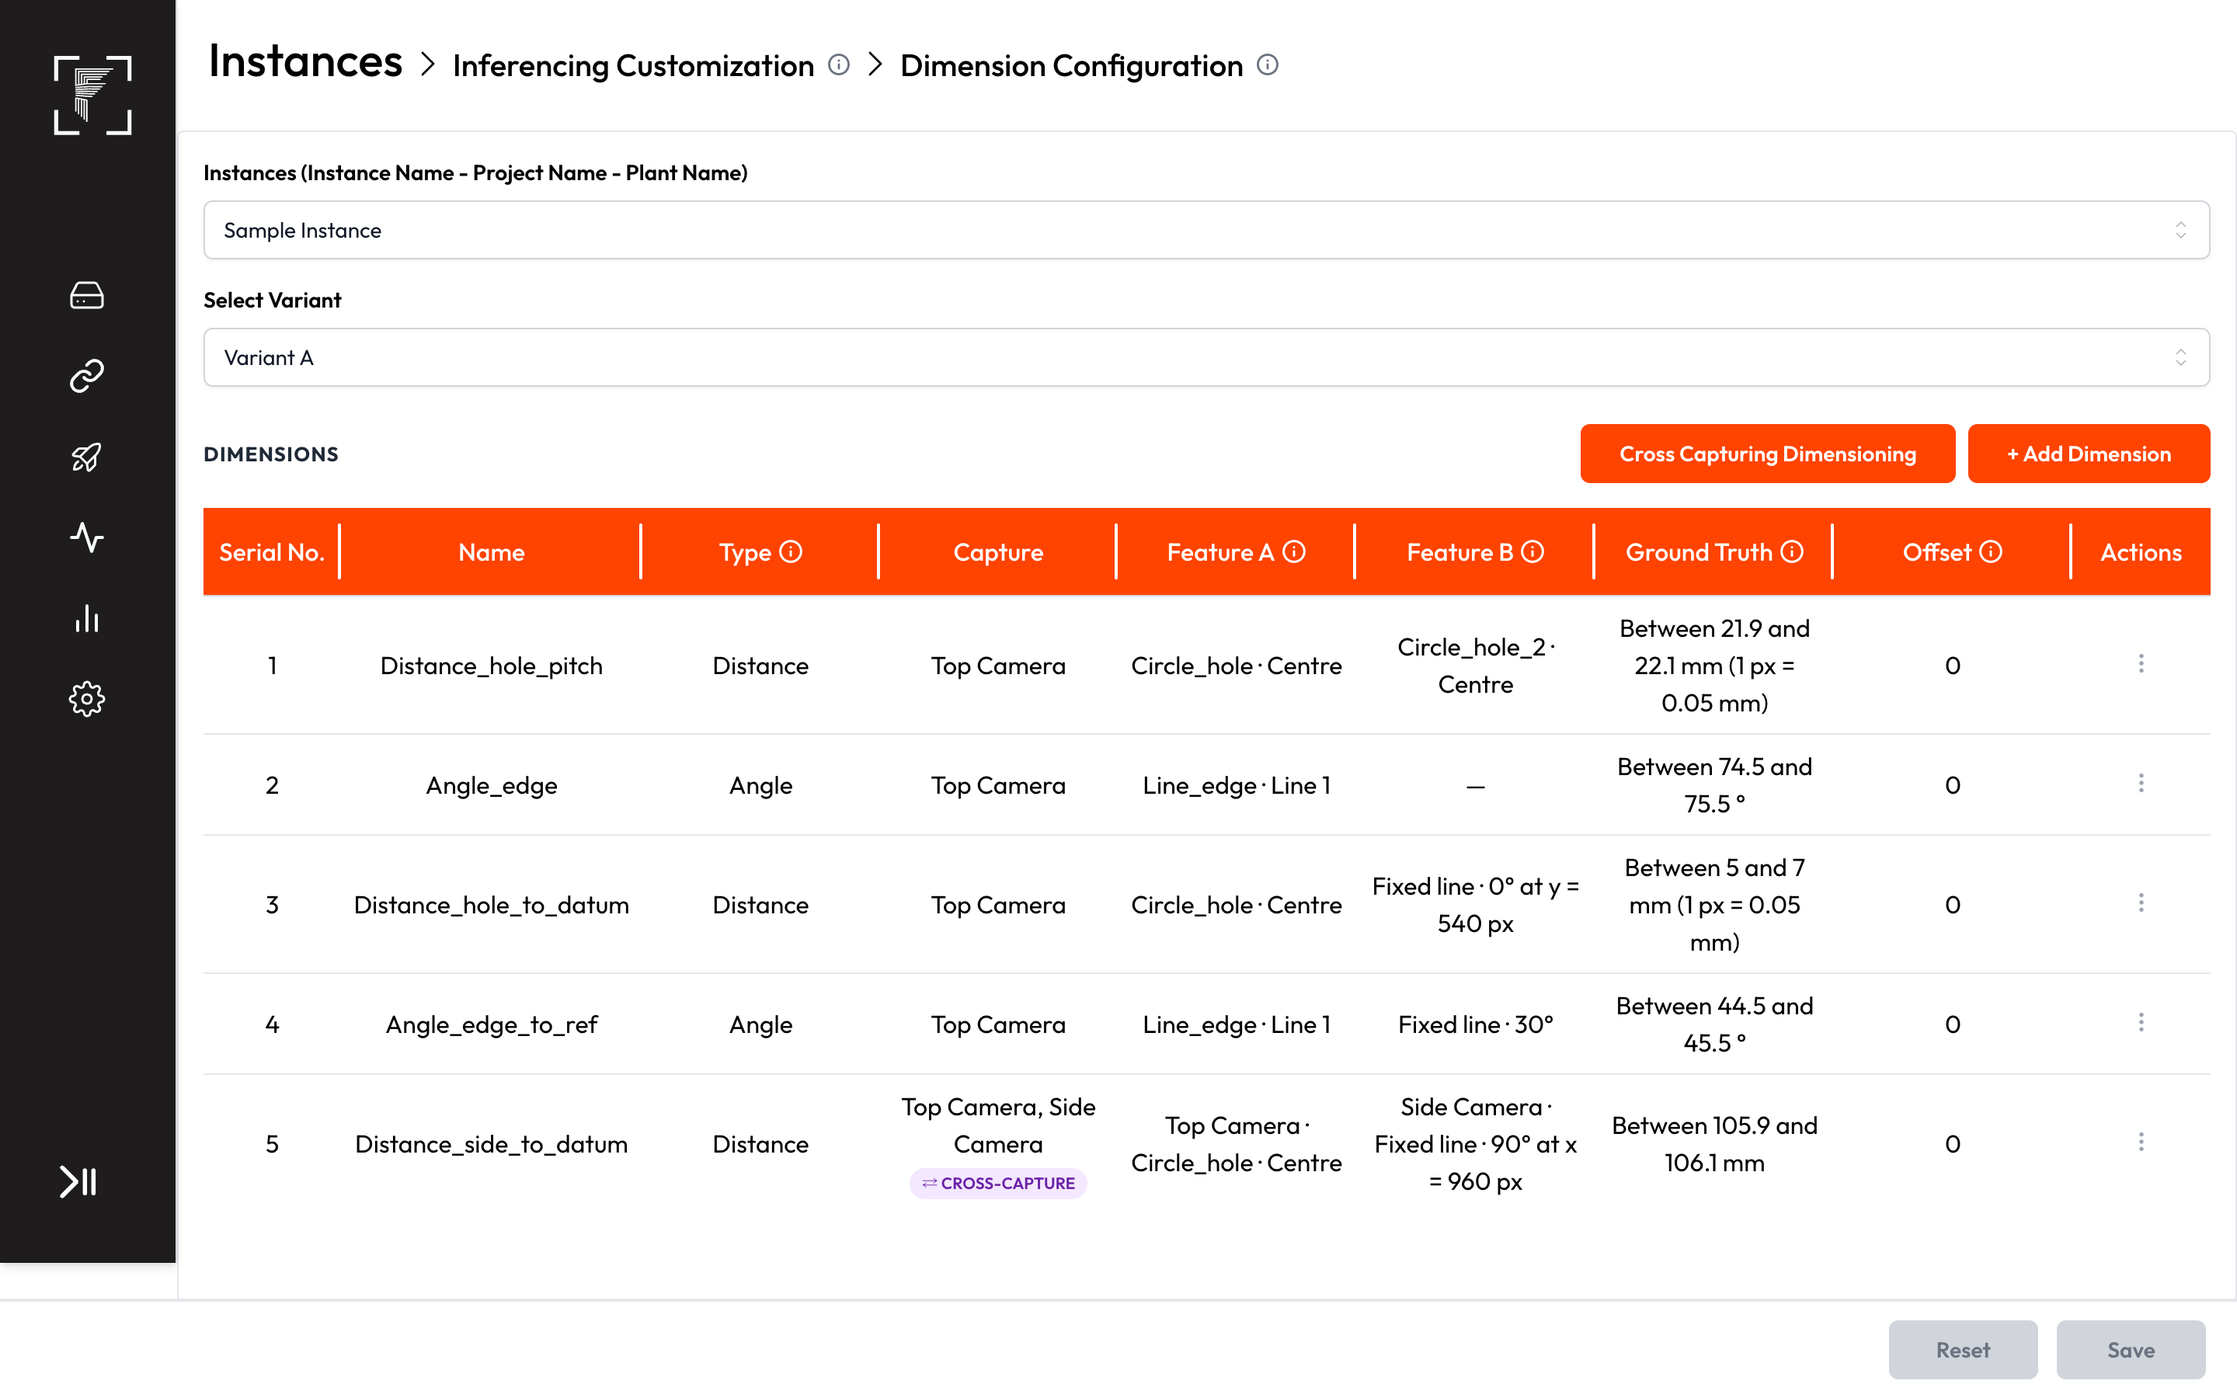
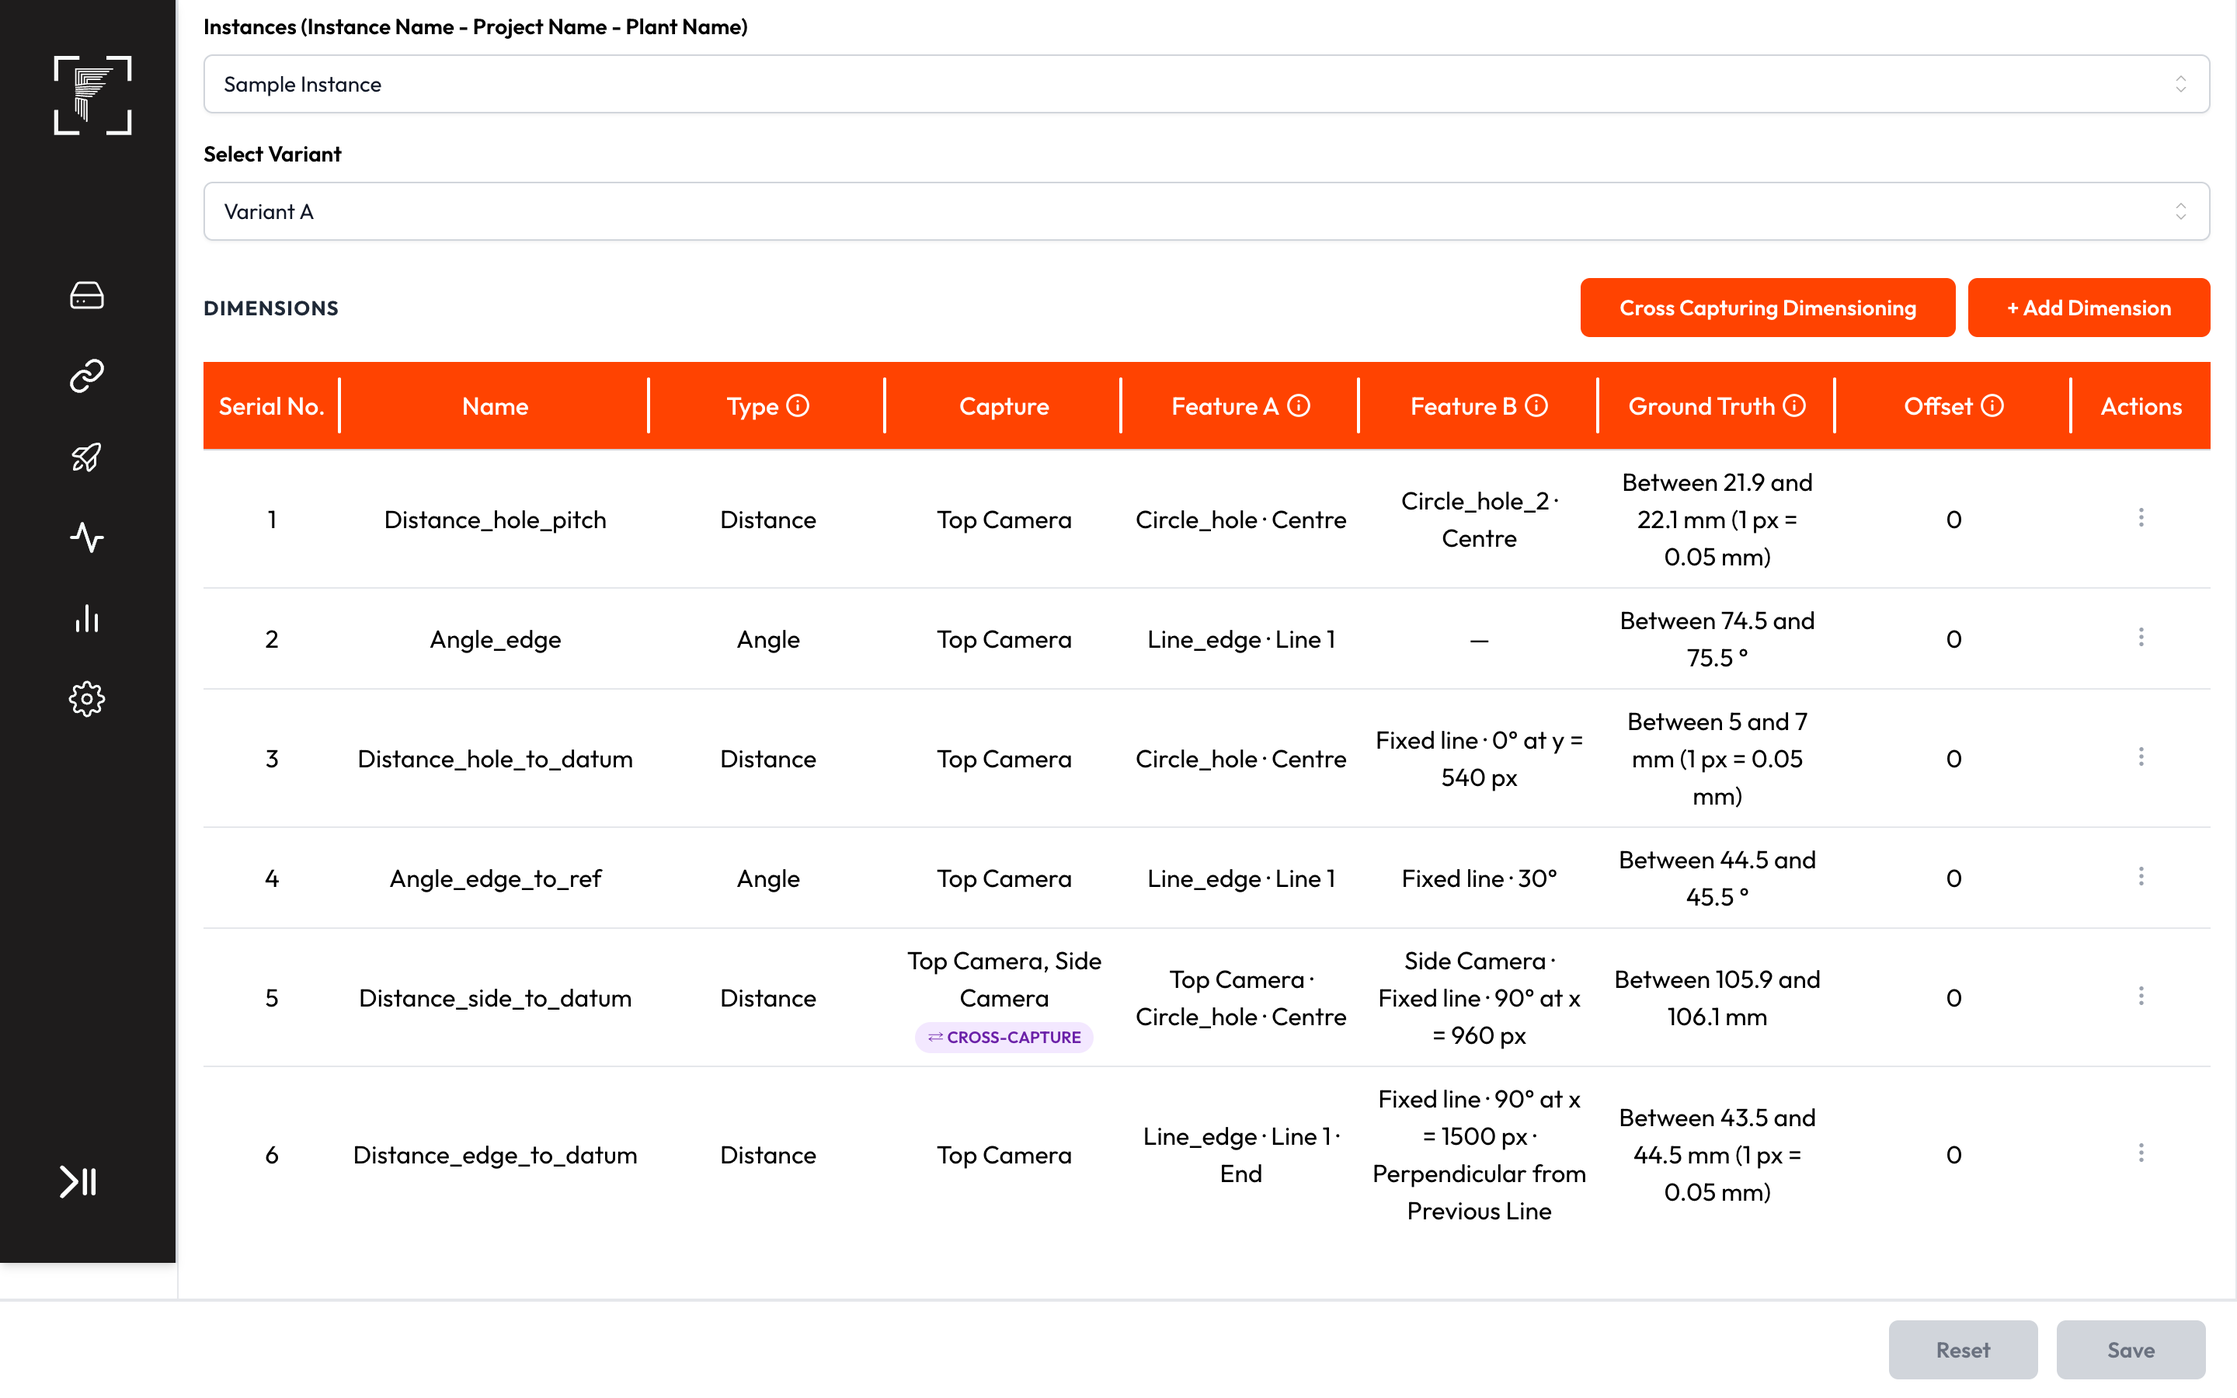
Perpendicular type for a fixed line when Feature A is a point on a line

diff --git a/dimension-config.html b/dimension-config.html
@@ -230,14 +230,14 @@ table.tbl{min-width:100%;width:100%;border-collapse:collapse;text-indent:0}
  * ========================================================================= */
 var Q = new URLSearchParams(location.search);
 var IN_IFRAME = (function () { try { return window.self !== window.top; } catch (e) { return true; } })();
-var VALID_STATES = ['list', 'shape-value', 'distance', 'distance-vertical', 'distance-tilted', 'line', 'gt', 'gt-px', 'angle', 'cross', 'saved'];
+var VALID_STATES = ['list', 'shape-value', 'distance', 'distance-vertical', 'distance-tilted', 'perp', 'line', 'gt', 'gt-px', 'angle', 'cross', 'saved'];
 var MODE = Q.get('mode') === 'today' ? 'today' : 'after';
 var STATE = VALID_STATES.indexOf(Q.get('state')) >= 0 ? Q.get('state') : 'list';
 var SHOW_SWITCH = !IN_IFRAME && Q.get('switch') !== '0';
 var SCROLL_TO = Q.get('scroll') || (STATE === 'gt' || STATE === 'gt-px' ? 'gt' : (STATE === 'line' ? 'col' : ''));
 function isAfter() { return MODE === 'after'; }
 function effState() {
-  if (MODE === 'today' && (STATE === 'distance-vertical' || STATE === 'distance-tilted' || STATE === 'line')) return 'distance';
+  if (MODE === 'today' && (STATE === 'distance-vertical' || STATE === 'distance-tilted' || STATE === 'line' || STATE === 'perp')) return 'distance';
   return STATE;
 }
 function nav(to) {
@@ -468,6 +468,7 @@ function validate(f) {
   return e;
 }
 function hasErrors(e) { return Object.keys(e).length > 0; }
+function hasErrorsIn(e) { return Object.keys(e).length > 0; }
 
 /* =========================================================================
  * =========================================================================
@@ -483,6 +484,9 @@ var FIXED = {
   LINE_COLOUR_LABEL: 'Fixed line colour',
   DEFAULT_LINE_COLOR: '#FFFF33',  // yellow
   ANGLE_TYPE_LABEL: 'Angle type',
+  PERP_LABEL: 'Perpendicular type',
+  PERP_OPTIONS: [{ id: 'on', name: 'Perpendicular on the line' }, { id: 'from', name: 'Perpendicular from Previous Line' }],
+  NEVER_MEETS: 'Feature A’s line is perpendicular to the fixed line, so the perpendicular from A never meets it. Change the angle or pick a different point.',
   TWO_FEATURES_NAME: 'Between two features',
   ANGLE_OPTION: { id: 'fixed', name: 'From a fixed line' },
   ANGLE_LABEL: 'Angle',           // the one box shown for Angle → From a fixed line
@@ -497,6 +501,15 @@ var FIXED = {
   // Defaults applied when "Fixed line" is picked: 90° through the image's middle column (Centre y greyed out).
   applyDefaults: function (fx, cap) { var s = imgSizeOf(cap); fx.angle = '90'; fx.cx = String(s.w / 2); fx.cy = ''; fx.cap = cap; },
   // Exactly 0° or 180° greys out Centre x; exactly 90° greys out Centre y.
+  // Perpendicular type applies only while Feature A is a point on a line; otherwise it is "on the line".
+  perpOf: function (f) { return mode2Enabled(f) && f.fixed.perp === 'from' ? 'from' : 'on'; },
+  // "From previous line": the line at right angles to Feature A's own line, through A's point, to where it meets the fixed line.
+  fromPrevious: function (f, P, g) {
+    var lineA = resolveFeatureLine(shapeOf(f.A), f.A); if (!lineA) return null;
+    var perp = perpendicularThrough(P, lineA), L = { a: g.p, b: add(g.p, g.u) };
+    if (!perp || nearlyParallel(perp, L)) return null;
+    return { meet: intersectLines(perp, L), lineDir: unit(sub(lineA.b, lineA.a)) };
+  },
   greyX: function (fx) { var a = textToNum(fx.angle); return a === 0 || a === 180; },
   greyY: function (fx) { return textToNum(fx.angle) === 90; },
   // A box that comes back into use gets the value typed earlier, or the image's middle column / row.
@@ -524,17 +537,22 @@ var FIXED = {
     if (f.type === 'angle') { if (!inR(fx.angle, 0, 180)) e.fixedAngle = 'Enter an angle between 0° and 180°.'; return e; }
     if (!inR(fx.angle, 0, 180)) e.fixedAngle = 'Enter an angle between 0° and 180°.';
     // a greyed-out box is neither checked nor saved
+    if (FIXED.perpOf(f) === 'from' && !hasErrorsIn(e)) {
+      var P0 = resolveFeaturePoint(shapeOf(f.A), f.A), g0 = FIXED.geom(fx);
+      if (P0 && g0 && !FIXED.fromPrevious(f, P0, g0)) e.featureB = FIXED.NEVER_MEETS;
+    }
     if (!FIXED.greyX(fx) && !inR(fx.cx, 0, s.w)) e.fixedCx = px(s.w);
     if (!FIXED.greyY(fx) && !inR(fx.cy, 0, s.h)) e.fixedCy = px(s.h);
     return e;
   },
 
   // Dimensions table, Feature B cell
-  describe: function (fx, captureName) {
+  describe: function (fx, captureName, perpName) {
     var v = function (t) { return fmt2(textToNum(t)); }, a = v(fx.angle) + '°', txt;
     if (FIXED.greyX(fx)) txt = 'Fixed line · ' + a + ' at y = ' + v(fx.cy) + ' px';
     else if (FIXED.greyY(fx)) txt = 'Fixed line · ' + a + ' at x = ' + v(fx.cx) + ' px';
     else txt = 'Fixed line · ' + a + ' at (' + v(fx.cx) + ', ' + v(fx.cy) + ') px';
+    if (perpName) txt += ' · ' + perpName;
     return captureName ? captureName + ' · ' + txt : txt;
   },
   describeAngle: function (angle) { return 'Fixed line · ' + fmt2(textToNum(angle)) + '°'; },
@@ -627,6 +645,7 @@ var FIXED = {
       html += selectInput('fixed.cap', { options: captureOptions(), value: f.fixed.cap, placeholder: 'Capture' });
       html += selectInput('B.shape', { options: shapes.map(function (sh) { return { id: sh.id, name: sh.name }; }).concat([FIXED.SHAPE_OPTION]), value: FIXED.SHAPE_OPTION.id, placeholder: 'Shape' });
       html += FIXED.inputs(f.fixed);
+      if (mode2Enabled(f)) html += selectField('fixed.perp', FIXED.PERP_LABEL, { options: FIXED.PERP_OPTIONS, value: FIXED.perpOf(f) });
     } else {
       var inner = featurePickerInner(f, 'B', true, true, [FIXED.SHAPE_OPTION]);
       html += inner.html; warn = inner.warn;
@@ -677,14 +696,21 @@ var FIXED = {
     var P = resolveFeaturePoint(shapeOf(f.A), f.A); if (!P) return null;
     var g = FIXED.geom(f.fixed); if (!g) return null;
     var s = imgSizeOf(f.fixed.cap), seg = FIXED.clip(g.p, g.u, s.w, s.h);
-    var foot = FIXED.foot(P, g.p, g.u), d = len(sub(P, foot));
+    var fp = FIXED.perpOf(f) === 'from' ? FIXED.fromPrevious(f, P, g) : null;
+    if (FIXED.perpOf(f) === 'from' && !fp) return null;
+    var end = fp ? fp.meet : FIXED.foot(P, g.p, g.u), d = len(sub(P, end));
     return {
-      at: d > 0.5 ? mid(P, foot) : P,
-      px: d, half: d / 2, dir: d > 0.5 ? unit(sub(P, foot)) : g.u, avoid: seg ? [{ a: seg[0], b: seg[1] }] : [],
+      at: d > 0.5 ? mid(P, end) : P,
+      px: d, half: d / 2, dir: d > 0.5 ? unit(sub(P, end)) : g.u, avoid: seg ? [{ a: seg[0], b: seg[1] }] : [],
       draw: function (ctx) {
         if (seg) strokeLine(ctx, seg[0], seg[1], color, sw, [5 * sw, 3 * sw]);
-        if (d > 0.5) { FIXED.tick(ctx, foot, g.u, unit(sub(P, foot)), 5 * sw, color, sw * 0.6); strokeLine(ctx, P, foot, color, sw * 1.4); }
-        drawMarker(ctx, P, color, sw); drawMarker(ctx, foot, color, sw);
+        if (d > 0.5) {
+          // the right angle sits where the span meets the fixed line, or (from previous line) at A on its own line
+          if (fp) FIXED.tick(ctx, P, fp.lineDir, unit(sub(end, P)), 5 * sw, color, sw * 0.6);
+          else FIXED.tick(ctx, end, g.u, unit(sub(P, end)), 5 * sw, color, sw * 0.6);
+          strokeLine(ctx, P, end, color, sw * 1.4);
+        }
+        drawMarker(ctx, P, color, sw); drawMarker(ctx, end, color, sw);
       },
     };
   },
@@ -718,6 +744,12 @@ var FIXED = {
     var pA = placementOf(f.A.cap), pB = placementOf(f.fixed.cap);
     var Amm = imagePointToMm(PA, pA), l1 = imagePointToMm(g.p, pB), l2 = imagePointToMm(add(g.p, mul(g.u, 100)), pB);
     var umm = unit(sub(l2, l1)), footMm = FIXED.foot(Amm, l1, umm);
+    if (FIXED.perpOf(f) === 'from') {
+      var lA = resolveFeatureLine(shapeOf(f.A), f.A); if (!lA) return;
+      var perpMm = perpendicularThrough(Amm, { a: imagePointToMm(lA.a, pA), b: imagePointToMm(lA.b, pA) }), Lmm = { a: l1, b: add(l1, umm) };
+      if (!perpMm || nearlyParallel(perpMm, Lmm)) return;
+      footMm = intersectLines(perpMm, Lmm);
+    }
     var s1 = T.toCanvas(l1), s2 = T.toCanvas(add(l1, umm)), us = unit(sub(s2, s1));
     var seg = FIXED.clip(s1, us, size.width, size.height);
     var a = T.toCanvas(Amm), b = T.toCanvas(footMm), d = len(sub(a, b));
@@ -742,14 +774,14 @@ var FIXED = {
 var FORCED_LINE = { 'distance-vertical': { angle: '90', cx: '960', cy: '' }, 'distance-tilted': { angle: '30', cx: '960', cy: '540' } };
 // The Ground Truth screens open on a set unit (gt-px: a px range that fits the 120 px sample span).
 var FORCED_UNIT = { gt: 'mm', 'gt-px': 'px' };
-var OWN_STATES = ['cross', 'pitch', 'edge', 'shape-value'];   // own sample dimensions: never read/written to the shared state
+var OWN_STATES = ['cross', 'pitch', 'edge', 'shape-value', 'perp'];   // own sample dimensions: never read/written to the shared state
 function baseForm(S) {
   return {
     type: 'distance', angleMode: 'x', distanceAxis: 'euclidean',
     A: { cap: 'top', shape: 'circle_hole', part: 'Centre', point: null },
     B: { cap: 'top', shape: 'line_edge', part: 'Line 1', point: DERIV_ON_LINE },
     bKind: 'shape',
-    fixed: { cap: 'top', angle: numText(S.angle), cx: numText(S.cx), cy: numText(S.cy) },
+    fixed: { cap: 'top', angle: numText(S.angle), cx: numText(S.cx), cy: numText(S.cy), perp: 'on' },
     name: '', min: '', max: '', unit: 'mm', ratio: numText(S.ratio), offset: 0,
     okColor: S.okColor, ngColor: S.ngColor, labelSize: 'medium',
     showLine: S.showLine, lineColor: S.lineColor,
@@ -770,8 +802,14 @@ function buildForm(st, S) {
     // The cross-capture example is its own dimension: its line does not follow the shared one.
     f.B = { cap: 'side', shape: 'circle_pin', part: 'Centre', point: null };
     f.bKind = after ? 'fixed' : 'shape';
-    f.fixed = { cap: 'side', angle: '90', cx: '960', cy: '' };
+    f.fixed = { cap: 'side', angle: '90', cx: '960', cy: '', perp: 'on' };
     f.name = 'Distance_side_to_datum'; f.min = 105.9; f.max = 106.1; f.unit = 'mm';
+  } else if (st === 'perp') {
+    // Feature A is a point on a line (Line_edge's End), so Feature B's fixed line offers Perpendicular type.
+    f.A = { cap: 'top', shape: 'line_edge', part: 'Line 1', point: 'End' };
+    f.bKind = after ? 'fixed' : 'shape';
+    f.fixed = { cap: 'top', angle: '90', cx: '1500', cy: '', perp: after ? 'from' : 'on' };
+    f.name = 'Distance_edge_to_datum'; f.min = 43.5; f.max = 44.5; f.unit = 'mm'; f.ratio = '0.05';
   } else if (st === 'shape-value') {
     // A new single-capture Distance between two shapes: Circle_hole centre, perpendicular on Line_edge.
     f.name = 'Distance_hole_to_edge'; f.min = 29.9; f.max = 30.1; f.unit = 'mm'; f.ratio = '0.05';
@@ -1069,6 +1107,8 @@ function tableRows() {
       gt: 'Between ' + (ang ? S.min : 44.5) + ' and ' + (ang ? S.max : 45.5) + ' °', offset: '0', open: 'angle' });
     rows.push({ name: 'Distance_side_to_datum', type: 'Distance', capture: 'Top Camera, Side Camera', cross: true, A: 'Top Camera · Circle_hole · Centre',
       B: FIXED.describe({ angle: 90, cx: 960, cy: '' }, 'Side Camera'), gt: 'Between 105.9 and 106.1 mm', offset: '0', open: 'cross' });
+    rows.push({ name: 'Distance_edge_to_datum', type: 'Distance', capture: 'Top Camera', A: 'Line_edge · Line 1 · End',
+      B: FIXED.describe({ angle: 90, cx: 1500, cy: '' }, null, 'Perpendicular from Previous Line'), gt: 'Between 43.5 and 44.5 mm (1 px = 0.05 mm)', offset: '0', open: 'perp' });
     // The shape-to-shape Distance, once saved from its own screen.
     if (S.shape) rows.push({ name: S.shape.name, type: 'Distance', capture: 'Top Camera', A: 'Circle_hole · Centre', B: 'Line_edge · ' + DERIV_ON_LINE,
       gt: 'Between ' + fmt2(S.shape.min) + ' and ' + fmt2(S.shape.max) + ' ' + S.shape.unit + (S.shape.unit === 'mm' && S.shape.ratio ? ' (1 px = ' + S.shape.ratio + ' mm)' : ''), offset: '0', open: 'shape-value' });
@@ -1414,7 +1454,7 @@ function openRowMenu(btn) {
   layer.innerHTML = '<div class="rowmenu" style="top:' + (rect.bottom + 4) + 'px;left:' + Math.max(8, rect.right - 120) + 'px"><button type="button" data-row-edit="' + open + '">' + ICON.edit2 + 'Edit</button><button type="button" class="danger" data-row-del="1">' + ICON.trash2 + 'Delete</button></div>';
   layer.firstChild.addEventListener('click', function (e) { var b = e.target.closest('button'); if (!b) return; closeLayer(); if (b.hasAttribute('data-row-edit')) openRow(b.getAttribute('data-row-edit')); });
 }
-var STEP_OF = { 'shape-value': 'edge-dim-shape-value', distance: 'edge-dim-distance', angle: 'edge-dim-angle', cross: 'edge-dim-cross' };
+var STEP_OF = { 'shape-value': 'edge-dim-shape-value', distance: 'edge-dim-distance', perp: 'edge-dim-perp', angle: 'edge-dim-angle', cross: 'edge-dim-cross' };
 function openRow(open) { if (open === 'pitch' || open === 'edge') enterState(open, { local: false }); else goState(open, isAfter() ? STEP_OF[open] : null); }
 
 var tipEl = null, tipTimer = null;
@@ -1488,11 +1528,12 @@ function onSelect(key, val) {
   if (key === 'B.shape' && val === FIXED.SHAPE_OPTION.id) {
     if (f.bKind === 'fixed') return;
     f.bKind = 'fixed'; FIXED.applyDefaults(f.fixed, f.B.cap || f.A.cap || 'top');
-    f.showLine = false; f.lineColor = FIXED.DEFAULT_LINE_COLOR;   // a newly picked fixed line starts off, in yellow
+    f.showLine = false; f.lineColor = FIXED.DEFAULT_LINE_COLOR; f.fixed.perp = 'on';   // a newly picked fixed line starts off, in yellow
     if (isCross(f) && f.unit === 'px') f.unit = 'mm';
     renderMain(); afterFormChange(['angle', 'cx', 'cy', 'showLine', 'lineColor']); return;
   }
   if (key === 'B.shape' && f.bKind === 'fixed') { f.bKind = 'shape'; f.B = { cap: f.fixed.cap, shape: val, part: null, point: null }; renderMain(); afterFormChange(); return; }
+  if (key === 'fixed.perp') { f.fixed.perp = val; renderMain(); afterFormChange(); return; }
   if (key === 'lineColor') { f.lineColor = val; renderMain(); afterFormChange(['lineColor']); return; }
   if (key === 'unit') { f.unit = val; renderMain(); afterFormChange(['unit']); return; }
   if (key === 'okColor' || key === 'ngColor') { f[key] = val; renderMain(); afterFormChange([key]); return; }
@@ -1512,6 +1553,7 @@ function onSelect(key, val) {
       if (first) { feat.part = first.group; feat.point = first.point; }
     } else if (field === 'point') { feat.point = val; }
     if (side === 'A' && f.B.point === DERIV_PREV_LINE && !mode2Enabled(f)) { f.B.part = null; f.B.point = null; }
+    if (side === 'A' && !mode2Enabled(f)) f.fixed.perp = 'on';   // Feature A no longer on a line: back to Perpendicular on the line
     if (f.type === 'shapeFeatures' && side === 'A') f.unit = 'px';
     if (isCross(f) && f.unit === 'px') f.unit = 'mm';
     renderMain(); afterFormChange(); return;

diff --git a/index.html b/index.html
@@ -69,6 +69,7 @@
     { id: 'edge-dim-list', label: 'Dimensions table', file: 'dimension-config.html', state: 'list' },
     { id: 'edge-dim-shape-value', label: 'Measured value', file: 'dimension-config.html', state: 'shape-value' },
     { id: 'edge-dim-distance', label: 'Distance to a fixed line', file: 'dimension-config.html', state: 'distance' },
+    { id: 'edge-dim-perp', label: 'Perpendicular type', file: 'dimension-config.html', state: 'perp' },
     { id: 'edge-dim-line', label: 'Show the line on the analysed image', file: 'dimension-config.html', state: 'line' },
     { id: 'edge-dim-units', label: 'Ground Truth in px', file: 'dimension-config.html', state: 'gt-px' },
     { id: 'edge-dim-angle', label: 'Angle from a fixed line', file: 'dimension-config.html', state: 'angle' },
@@ -93,7 +94,7 @@
     const q = [];
     if (step.state) q.push('state=' + step.state);
     q.push('mode=' + mode);
-    q.push('v=20261027a');
+    q.push('v=20261028a');
     if (extra) Object.keys(extra).forEach((k) => q.push(k + '=' + encodeURIComponent(extra[k])));
     return step.file + '?' + q.join('&');
   }
